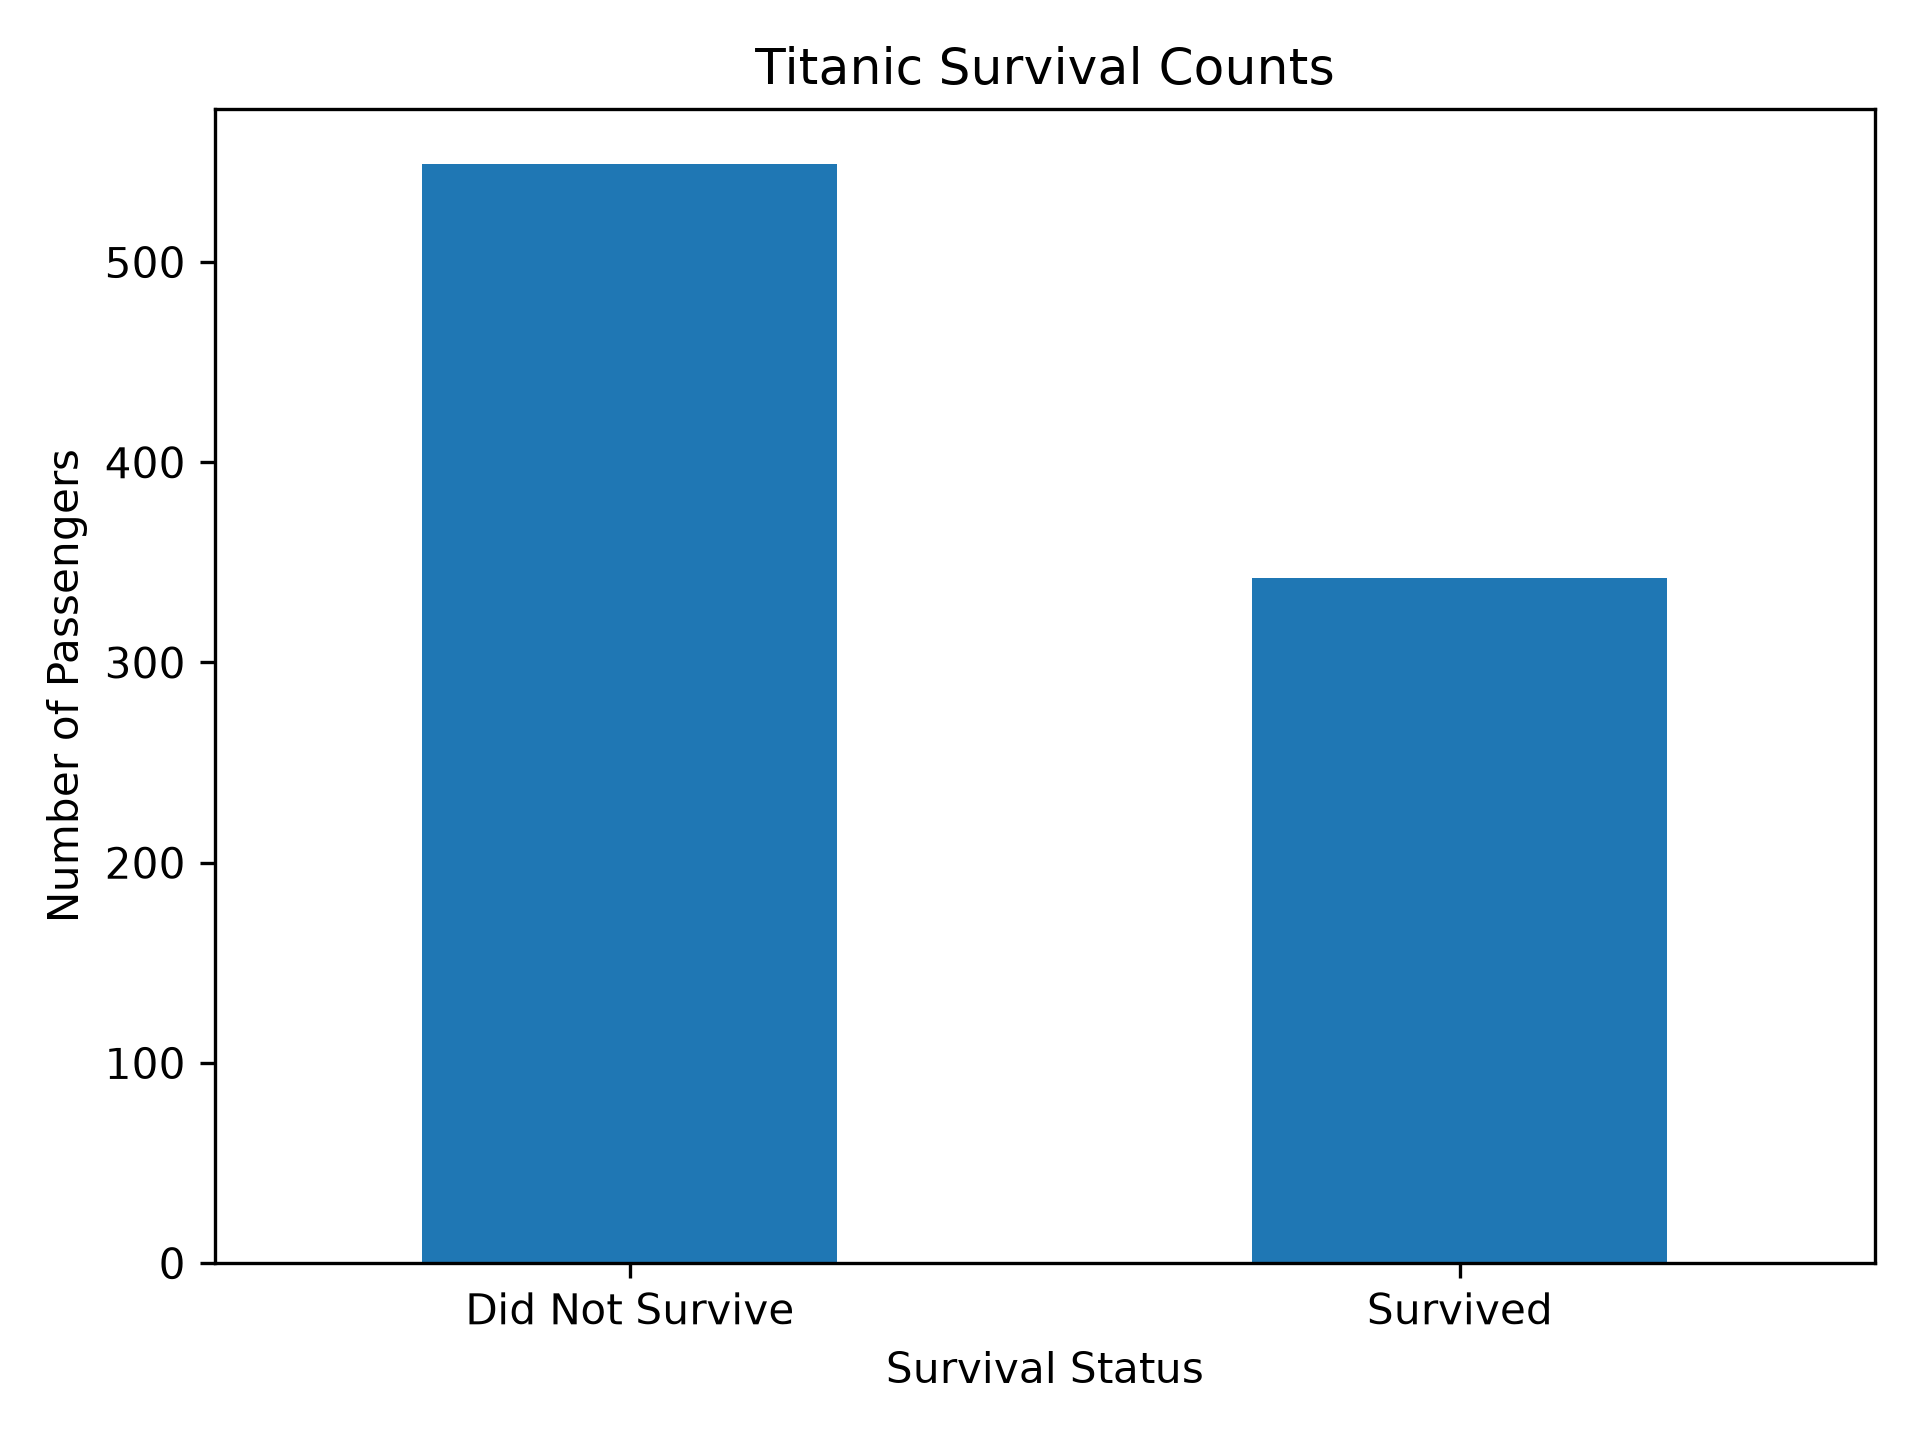
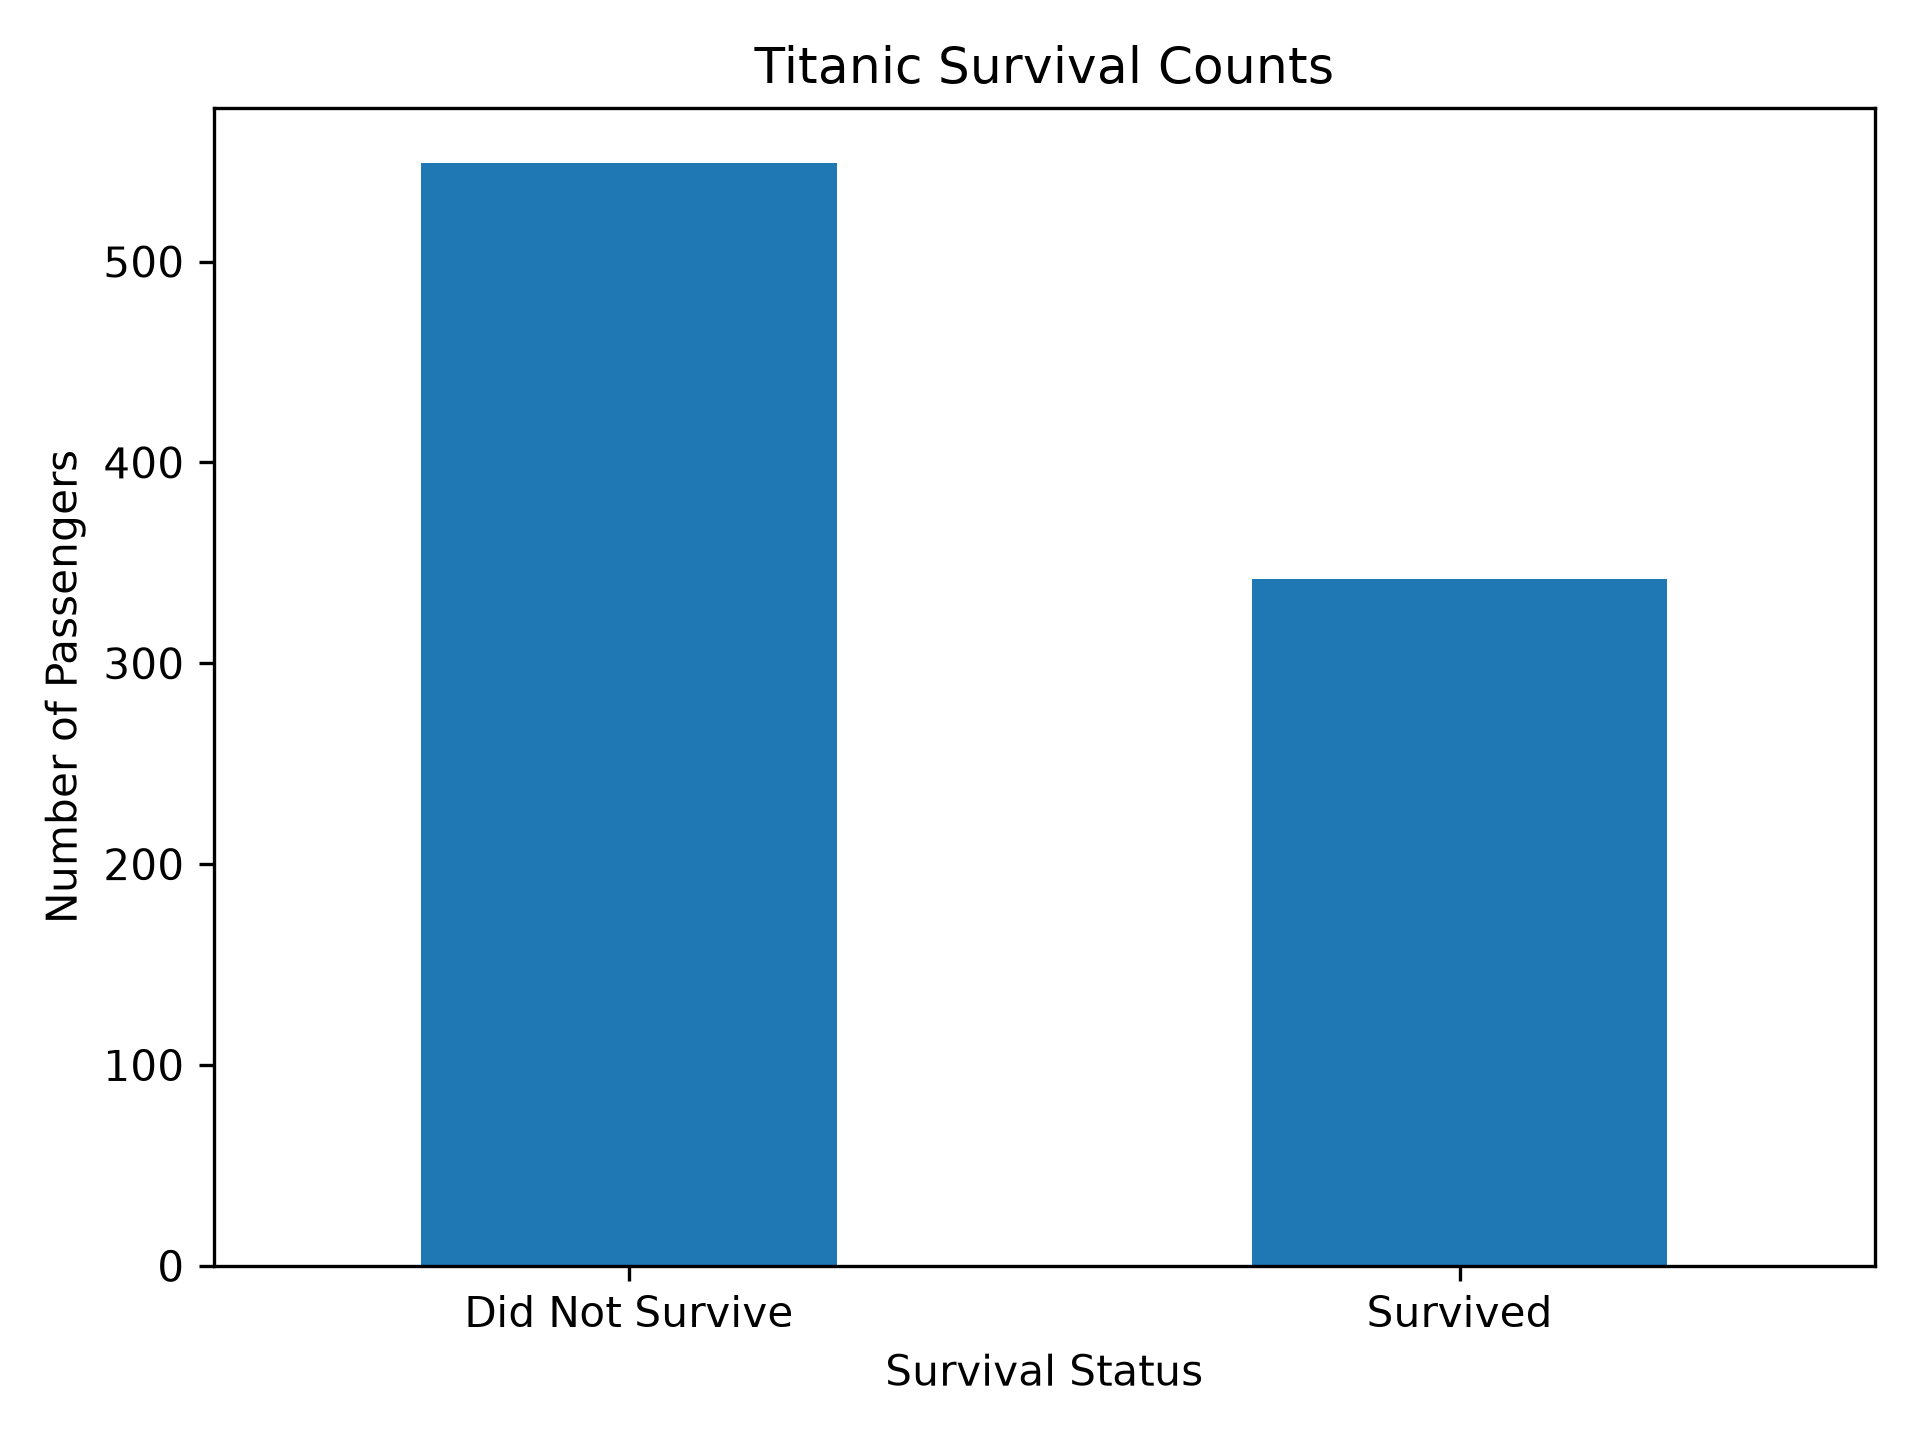
Add survival analysis by sex and passenger class

diff --git a/src/titanic_analysis.py b/src/titanic_analysis.py
@@ -71,12 +71,8 @@ plt.show()
 
 
 
-# two factors sex and pclass compare together
-survival_by_class_sex=(
-    df.groupby(["Sex","Pclass"])["Survived"]
-    .mean()
-)
-print(survival_by_class_sex)
+
+
 ax=survival_by_sex.plot(kind="bar")
 plt.title("Titanic Survival Rate By sex")
 plt.xlabel("Sex")
@@ -113,5 +109,43 @@ plt.xticks(
     ticks=[0,1,2],
     labels=["1st Class","2nd Class","3rd Class"],
     rotation=0
+)
+plt.show()
+plt.savefig(
+    images_path/"survival_rate_by_Pclass.png",
+    dpi=300)
+#two factors
+survival_by_class_sex=(
+    df.groupby(["Sex","Pclass"])["Survived"]
+    .mean()
+)
+print(survival_by_class_sex)
+#------
+
+survival_table = survival_by_class_sex.unstack()
+print("\nSURVIVAL RATE BY SEX AND CLASS")
+print(survival_table)
+ax=survival_table.plot(kind="bar")
+plt.title("Titanic Survival Rate by Sex and Passenger Class")
+plt.xlabel("Sex")
+plt.ylabel("Survial Rate")
+plt.ylim(0,1)
+plt.xticks(rotation=0)
+plt.tight_layout()
+plt.legend(
+    title="Passenger Class",
+    labels=["1st Class", "2nd Class", "3rd Class"]
+)
+for container in ax.containers:
+    ax.bar_label(
+        container,
+        fmt="%.1f",
+        padding=3
+    )
+
+
+plt.savefig(
+    images_path/"Survival Rate by sex and pclass",
+    dpi=300
 )
 plt.show()
